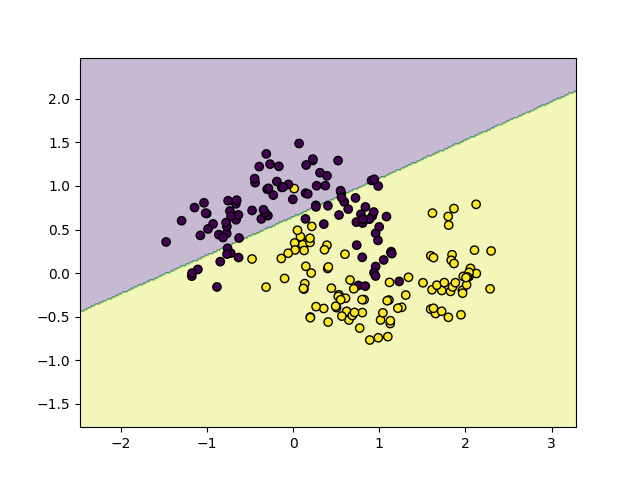
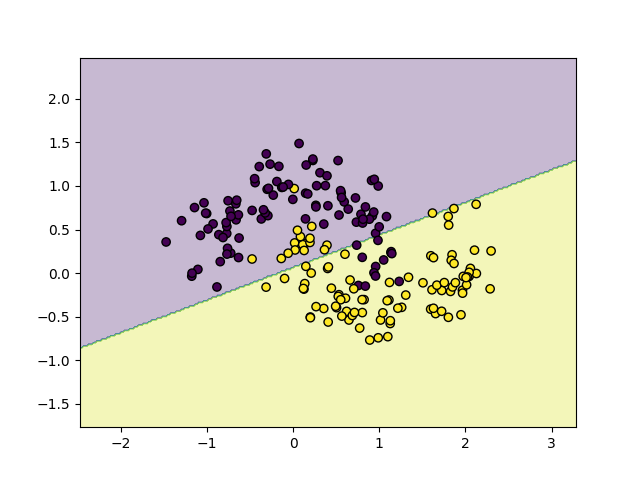
implement linear svm and compare with perceptron

Changed region(s): [[0.125, 0.1875, 0.9062, 0.7188]]

diff --git a/src/svm/svm_sklearn.py b/src/svm/svm_sklearn.py
@@ -1,0 +1,19 @@
+from sklearn.svm import SVC
+
+
+class LinearSVM:
+
+    def __init__(self, C=1.0):
+
+        self.model = SVC(
+            kernel='linear',
+            C=C
+        )
+
+    def fit(self, X, y):
+
+        self.model.fit(X, y)
+
+    def predict(self, X):
+
+        return self.model.predict(X)

diff --git a/src/svm/main.py b/src/svm/main.py
@@ -2,6 +2,7 @@ from sklearn.datasets import make_moons
 import matplotlib.pyplot as plt
 from perceptron import Perceptron
 from visualization import plot_decision_boundary
+from svm_sklearn import LinearSVM
 
 X, y = make_moons(
     n_samples=200,
@@ -11,8 +12,8 @@ X, y = make_moons(
 
 y = 2 * y - 1
 
-clf = Perceptron()
+clf = LinearSVM(C=1)
 
 clf.fit(X, y)
 
-plot_decision_boundary(X, y, clf)
+plot_decision_boundary(X, y, clf , save_path='results/svm_decision_boundary.png')

diff --git a/src/svm/visualization.py b/src/svm/visualization.py
@@ -2,7 +2,7 @@ import numpy as np
 import matplotlib.pyplot as plt
 
 
-def plot_decision_boundary(X, y, model):
+def plot_decision_boundary(X, y, model,save_path):
 
     x_min, x_max = X[:, 0].min() - 1, X[:, 0].max() + 1
     y_min, y_max = X[:, 1].min() - 1, X[:, 1].max() + 1
@@ -27,5 +27,5 @@ def plot_decision_boundary(X, y, model):
         edgecolors='k'
     )
 
-    plt.savefig("results/perceptron_boundary.png")
+    plt.savefig(save_path)
     plt.show()